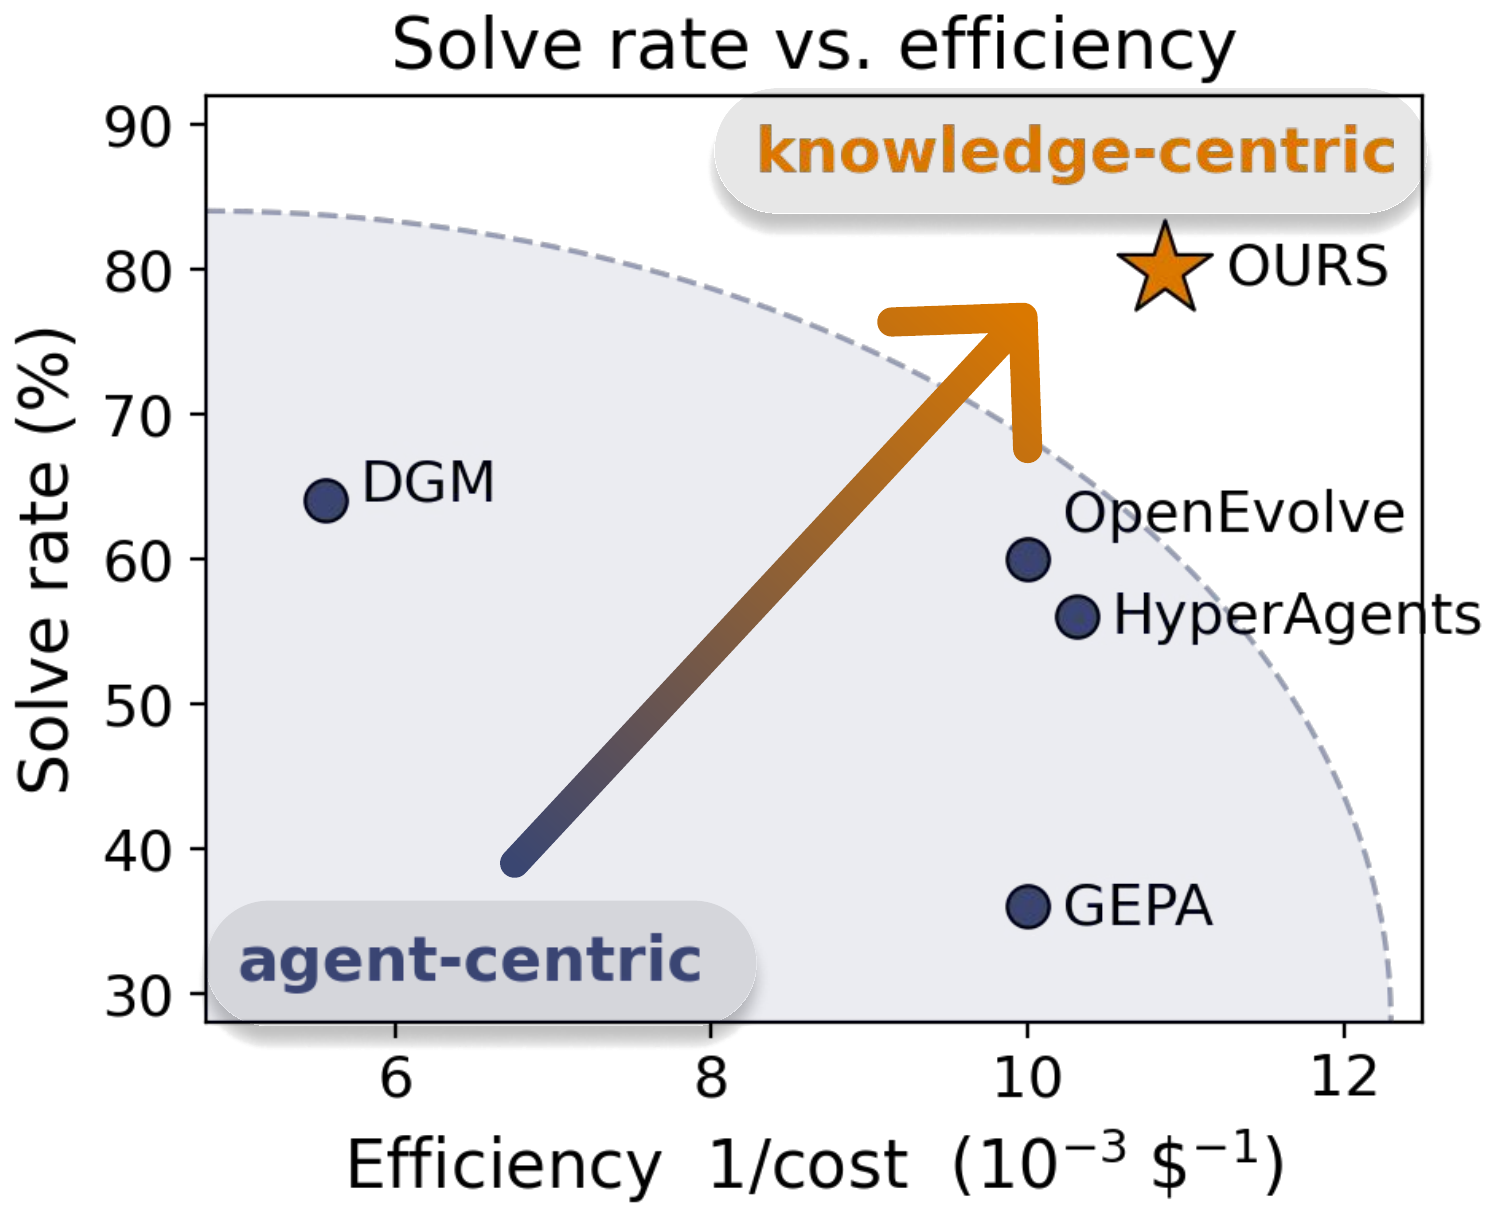
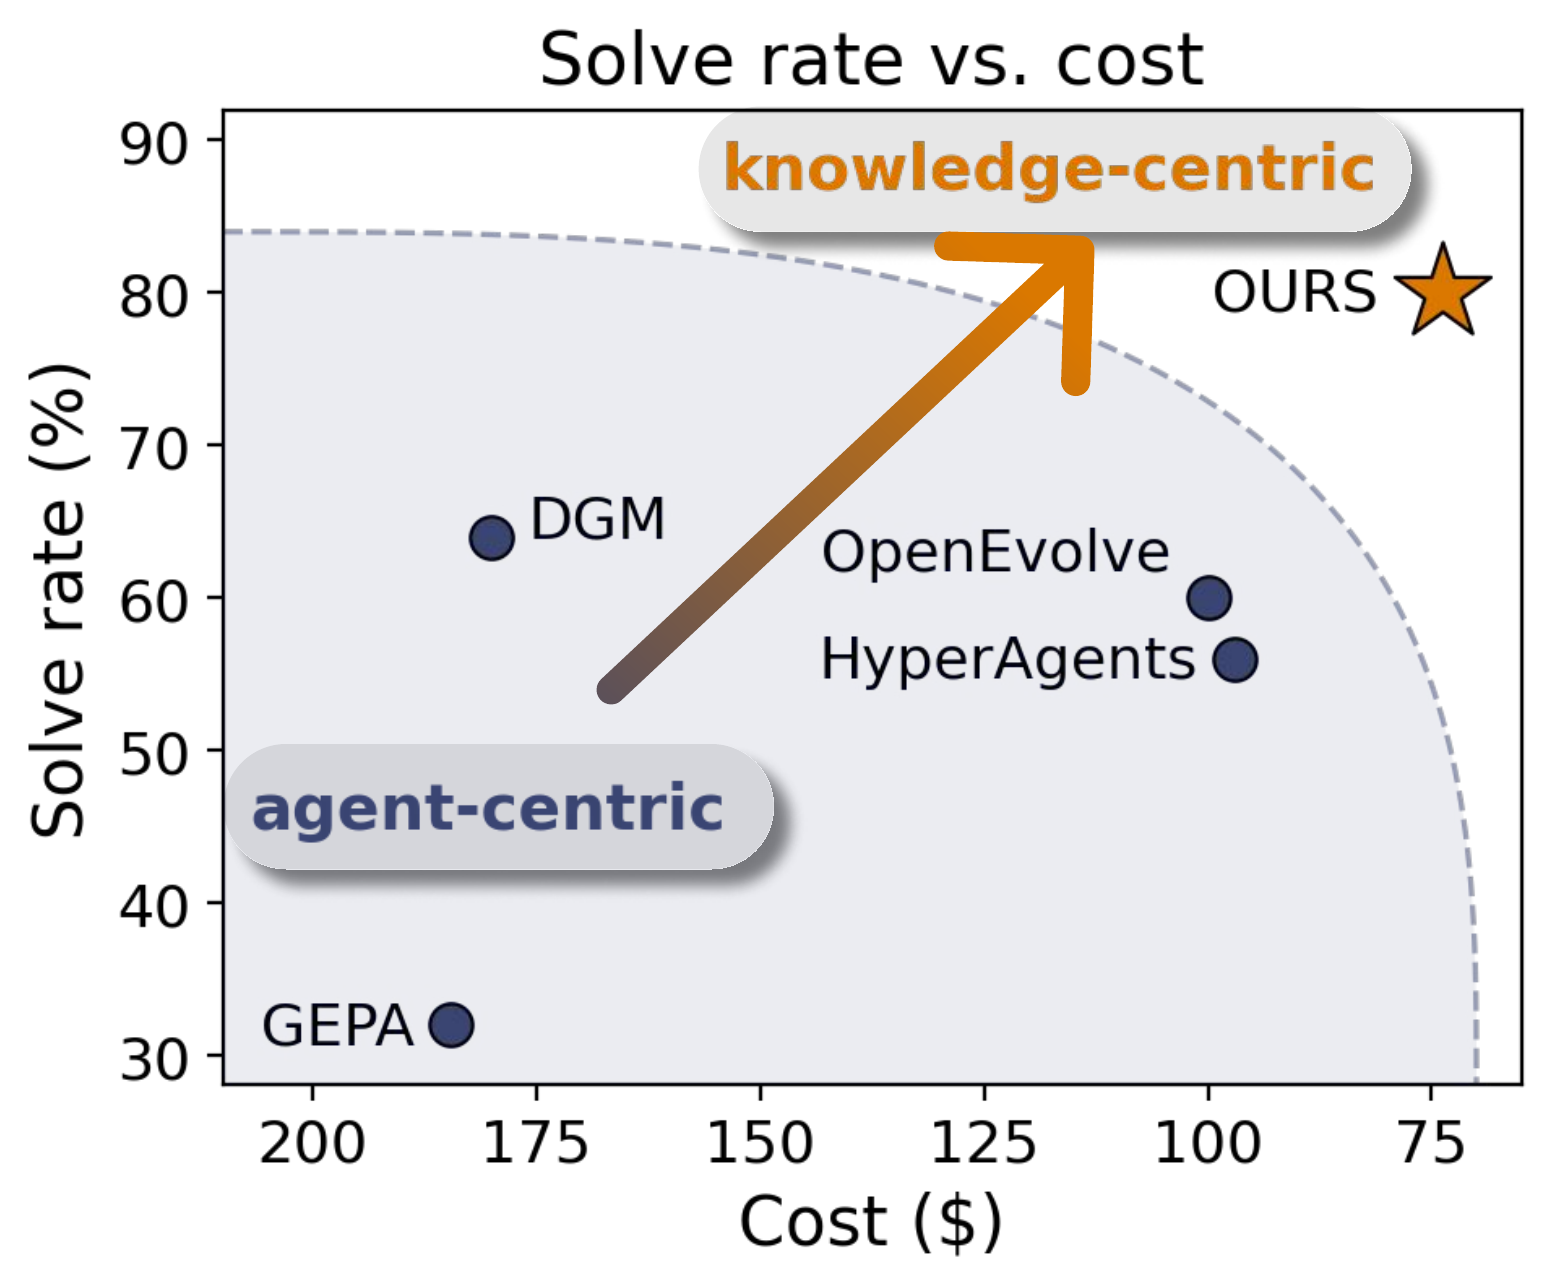
docs(results): switch Solve-rate plot x-axis from efficiency to cost
Replace main_scatter.png with the new cost-axis panel (reversed: high
cost left, low cost right) and re-render main_full.png (og image) from
the updated figure. Update alt text and figcaption to match.

diff --git a/knowledge-centric-self-improvement/index.html b/knowledge-centric-self-improvement/index.html
@@ -168,8 +168,8 @@
       </p>
 
       <figure class="results-figure">
-        <img src="static/images/main_scatter.png" alt="Scatter plot of solve rate versus cost-efficiency. Our knowledge-centric system (OURS) sits at the top-right frontier — the highest solve rate at high efficiency — above agent-centric baselines DGM, HyperAgents, OpenEvolve, and GEPA.">
-        <figcaption>Solve rate vs. cost-efficiency. Knowledge-centric self-improvement (<strong>Ours</strong>) pushes the frontier up and to the right &mdash; higher solve rate at lower cost than agent-centric baselines.</figcaption>
+        <img src="static/images/main_scatter.png" alt="Scatter plot of solve rate versus cost. Our knowledge-centric system (OURS) sits at the top-right frontier — the highest solve rate at the lowest cost — above agent-centric baselines DGM, HyperAgents, OpenEvolve, and GEPA.">
+        <figcaption>Solve rate vs. cost. Knowledge-centric self-improvement (<strong>Ours</strong>) pushes the frontier up and to the right &mdash; higher solve rate at lower cost than agent-centric baselines.</figcaption>
       </figure>
 
       <div class="results-layout">
